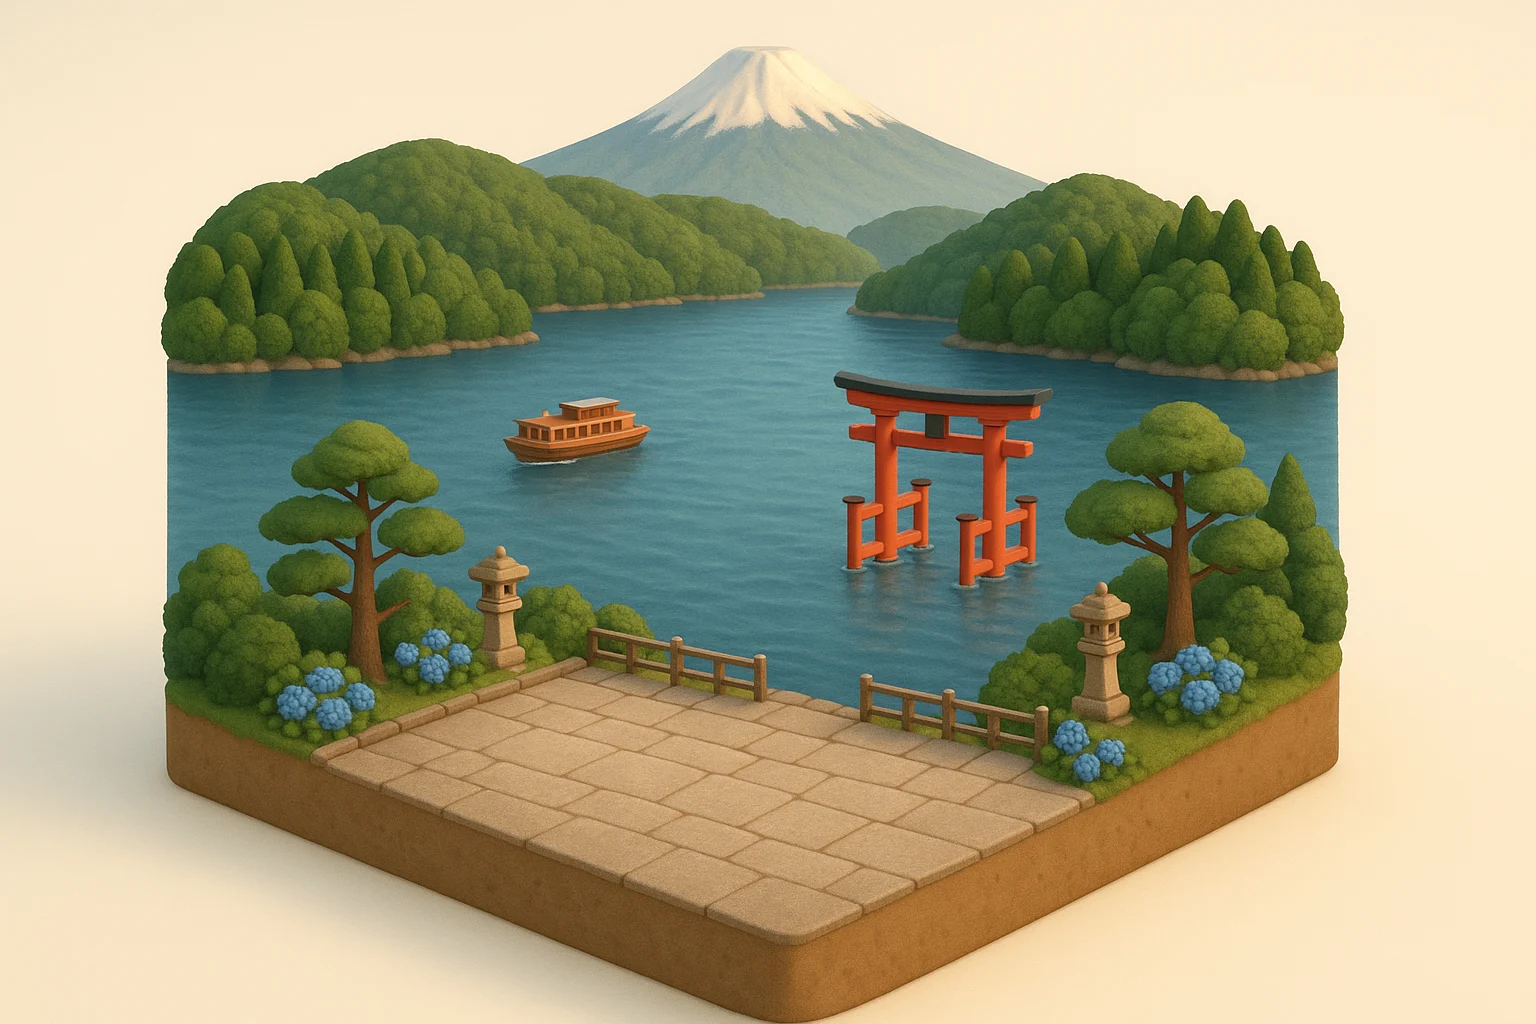
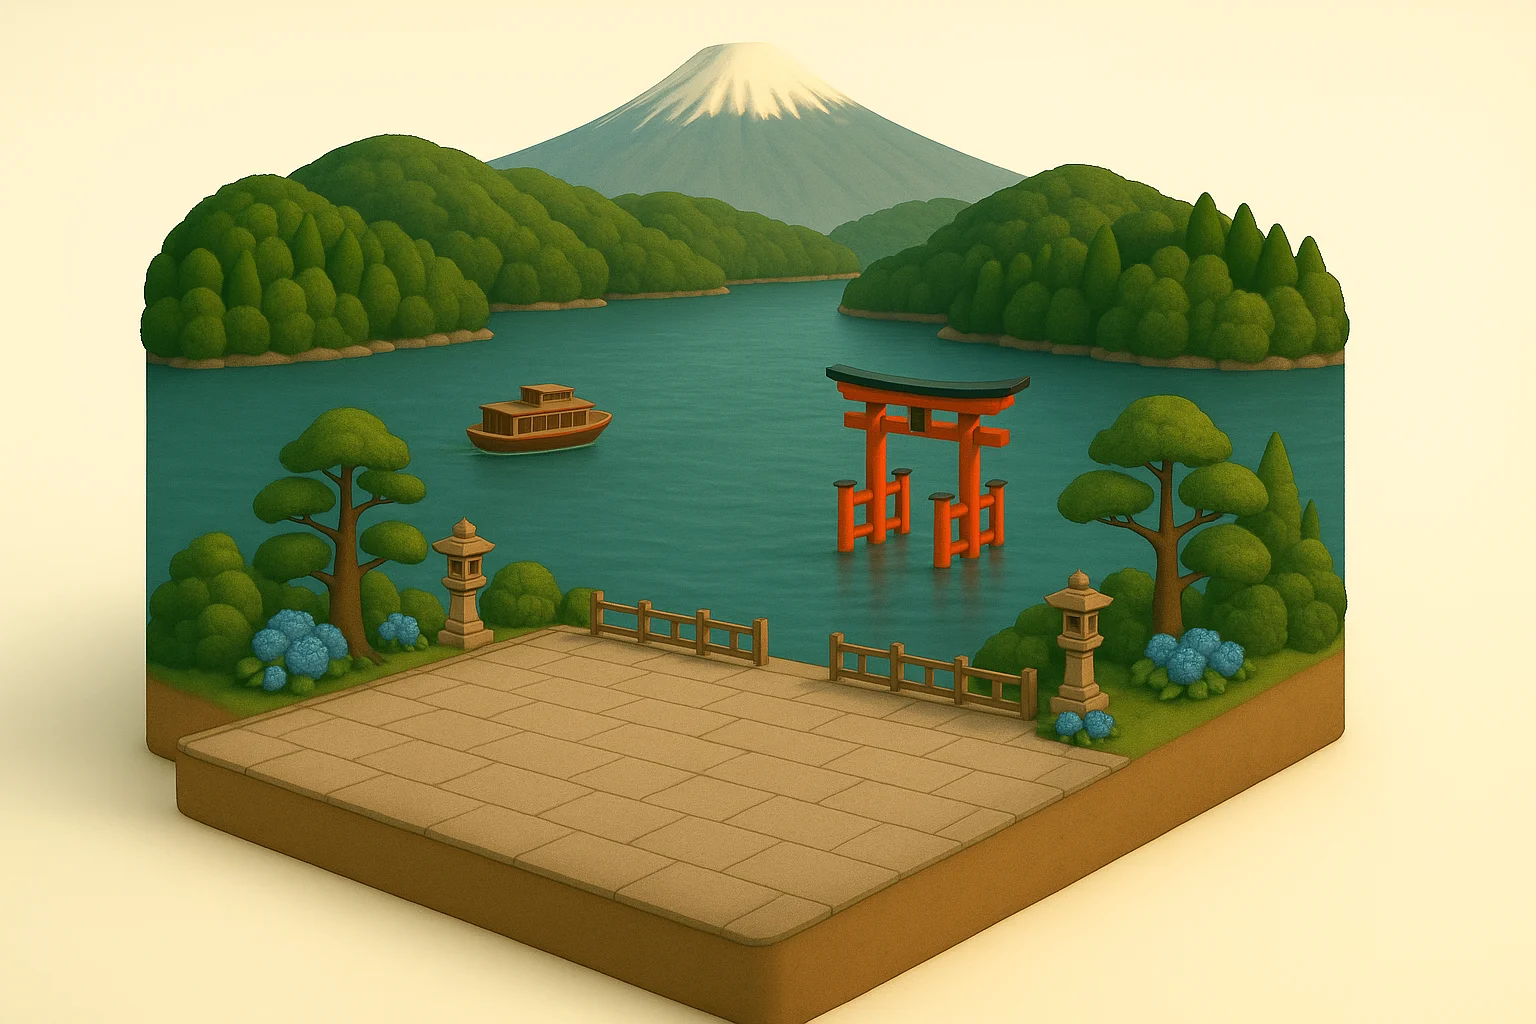
大涌谷と芦ノ湖の絵を、手前の石畳を広げた絵に差し替え、ベンチをゆとりをもって置き直す。座った直後に「ほかの端末で座っている席」と出る不具合を直す

diff --git a/public/部屋.js b/public/部屋.js
@@ -62,36 +62,40 @@ export const 部屋ら = {
     名: "箱根・大涌谷",
     英字: "Owakudani, Hakone",
     添え: "箱根の大涌谷。湯けむりの立ちのぼる岩の谷を眺めながら、ベンチに座って、それぞれの本を読む。",
-    // 2026-10-03 に作った案2（配信者が選んだ）。1536×1024
+    // 2026-10-03 に作った案2（配信者が選んだ）。2026-10-04 に、構図はそのままに手前の石畳を広げた絵（広げた案2）に差し替えた
+    //（配信者「ベンチの位置が近すぎるので、ゆとりをもって配置できるように」。04_tools/部屋を作る.mjs の --広げる）。1536×1024
     絵: "/部屋/owakudani.webp",
     比: "3 / 2",
     空き: { 顔: "/部屋/bench_front.webp", 背中: "/部屋/bench_back.webp" },
     空きの向き: { 顔: "左", 背中: "右" },
-    // 二人掛けのベンチを4ブロック、手前の石畳に左から並べる（8人まで。2026-10-03 配信者）。
-    // ローテンブルクと同じく、1つ目と3つ目は南東（右手前）、2つ目と4つ目は南西（左手前）を向く
+    // 二人掛けのベンチを4ブロック（8人まで）。広げた石畳に、ゆとりをもって**奥に2つ・手前に2つ**（2026-10-04）。
+    // 1つ目と3つ目は南東（右手前）、2つ目と4つ目は南西（左手前）を向く（前と同じ）
     席: 二人掛け([
-      { x: 24,   y: 73, 幅: 10, 向き: "右", 姿: "顔" },   // 1つ目
-      { x: 39,   y: 79, 幅: 10, 向き: "左", 姿: "顔" },   // 2つ目
-      { x: 55,   y: 81, 幅: 10, 向き: "右", 姿: "顔" },   // 3つ目
-      { x: 66,   y: 77, 幅: 10, 向き: "左", 姿: "顔" },   // 4つ目（石畳の右端）
+      { x: 24.7, y: 73,   幅: 10, 向き: "右", 姿: "顔" },   // 奥の左
+      { x: 48.3, y: 74.2, 幅: 10, 向き: "左", 姿: "顔" },   // 奥の右
+      { x: 36.1, y: 86,   幅: 10, 向き: "右", 姿: "顔" },   // 手前の左
+      { x: 51.5, y: 85,   幅: 10, 向き: "左", 姿: "顔" },   // 手前の右
     ]),
   },
   ashinoko: {
     名: "箱根・芦ノ湖",
     英字: "Lake Ashi, Hakone",
     添え: "箱根の芦ノ湖。湖に立つ赤い鳥居と、向こうの富士山を眺めながら、湖畔のベンチに座って、それぞれの本を読む。",
-    // 2026-10-04 に作った案1（配信者が選んだ）。1536×1024
+    // 2026-10-04 に作った案1（配信者が選んだ）。同じ日に、構図はそのままに手前の石畳を広げた絵（広げた案1）に差し替えた
+    //（配信者「ベンチの位置が近すぎるので、ゆとりをもって配置できるように」。04_tools/部屋を作る.mjs の --広げる）。1536×1024
     絵: "/部屋/ashinoko.webp",
     比: "3 / 2",
     空き: { 顔: "/部屋/bench_front.webp", 背中: "/部屋/bench_back.webp" },
     空きの向き: { 顔: "左", 背中: "右" },
-    // 二人掛けのベンチを4ブロック（8人まで）。湖畔の石畳（ひし形）の奥の2辺にそって置く（2026-10-04 配信者）：
-    // **左上の辺に1つ（2人）を南東向き、右上の辺（湖の柵ぞい）に3つ（6人）を南西向き**
+    /* 二人掛けのベンチを4ブロック（8人まで）。湖畔の石畳（ひし形）にゆとりをもって置く（2026-10-04 配信者「最適に置き直して」）。
+       前の配信者の指示（左上の辺は南東向き・右上の辺は南西向き）を生かし、
+       **左上の辺に1つ（南東）・右上の辺（湖の柵ぞい）に2つ（南西）・手前の中ほどに1つ（南東）**。
+       ⚠ 右上の辺に3つ並べると、広げたあとでもベンチどうしがくっつく長さだった */
     席: 二人掛け([
-      { x: 28,   y: 76,   幅: 10, 向き: "右", 姿: "顔" },   // 左上の辺
-      { x: 42,   y: 72.5, 幅: 10, 向き: "左", 姿: "顔" },   // 右上の辺の1つ目（奥）
-      { x: 51.5, y: 77,   幅: 10, 向き: "左", 姿: "顔" },   // 右上の辺の2つ目
-      { x: 61,   y: 81.5, 幅: 10, 向き: "左", 姿: "顔" },   // 右上の辺の3つ目（右の角の近く）
+      { x: 21.4, y: 75.1, 幅: 10, 向き: "右", 姿: "顔" },   // 左上の辺
+      { x: 43.4, y: 69.6, 幅: 10, 向き: "左", 姿: "顔" },   // 右上の辺の奥
+      { x: 46.7, y: 88.6, 幅: 10, 向き: "右", 姿: "顔" },   // 手前の中ほど
+      { x: 61.4, y: 75.5, 幅: 10, 向き: "左", 姿: "顔" },   // 右上の辺の右
     ]),
   },
   cafe: {

diff --git a/public/試し/土台.js b/public/試し/土台.js
@@ -147,7 +147,12 @@ export function 席を見張る(部屋, 届いたら, { 合わせる = false } =
 }
 
 // 同じ人が別のタブでも開いているときの突き合わせ（中身は 席の決まり.js。土台.js と同じ）
+/* ⚠ 座っている途中（座る の中）は突き合わせない（2026-10-04）。
+   座る席を書いた瞬間に席の様子が届くと、まだ いま が無いので、自分の席を「ほかの端末で座っている席」と取り違え、
+   「ほかの端末で座っている席で、続けて読めます」と出ていた */
+let 座りかけ = false;
 function 席を合わせる(部屋, 席ら){
+  if(座りかけ) return null;
   const r = 席を突き合わせる(いま, 部屋, 席ら.find(s=>s.uid === 私?.uid));
   いま = r.いま;
   return r.出来事;
@@ -156,6 +161,11 @@ function 席を合わせる(部屋, 席ら){
 let いま = null;   // 座っているあいだの覚え（形は 席の決まり.js の 座った覚え）。記録は「読み終える」のときだけ
 // 順：座ってみる席の番号の並び（画面の 座る順 が、空いたベンチを優先してランダムに決める）。数なら 0,1,2… の順
 export async function 座る(部屋, 題, 順, 本 = ""){
+  座りかけ = true;
+  try{ return await 座ってみる(部屋, 題, 順, 本); }
+  finally{ 座りかけ = false; }
+}
+async function 座ってみる(部屋, 題, 順, 本){
   const 番ら = typeof 順 === "number" ? [...Array(順).keys()] : 順;
   await 立つ();
   const s = 読む();

diff --git a/README.md b/README.md
@@ -20,6 +20,11 @@
   2026-10-03 に **箱根・大涌谷** を足した（二人掛けのベンチ4つ・8人まで。並べ方はローテンブルクと同じ）。
   2026-10-04 に **箱根・芦ノ湖** を足した（湖に立つ赤い鳥居と富士山。案1。二人掛けのベンチ4つ・8人まで。
   石畳はひし形で、配信者の指示で**左上の辺に1つ（2人）を南東向き、右上の辺（湖の柵ぞい）に3つ（6人）を南西向き**に置いた）。
+  2026-10-04 に、**大涌谷と芦ノ湖の絵を、構図はそのままに手前の石畳を広げた絵に差し替えた**（配信者「ベンチの位置が近すぎるので、
+  ゆとりをもって配置できるように」。大涌谷は広げた案2、芦ノ湖は広げた案1）。作り方は `node 04_tools/部屋を作る.mjs ashinoko 2 --広げる`
+  （いまの絵を OpenAI の images/edits に渡し、広場のことだけを頼む。⚠ 手直しすると全体の色が少し黄色寄りになる）。
+  ベンチは置き直した（配信者「最適に置き直して」）：大涌谷は**奥に2つ・手前に2つ**、芦ノ湖は**左上の辺に1つ（南東）・右上の辺に2つ（南西）・
+  手前の中ほどに1つ（南東）**（右上の辺に3つでは、広げたあとでもくっつく長さだった）。
   ⚠ 一度、前後2列に並べたときに、空のベンチと座っている人を**まとめて奥から描く**ようにした（`画面/ベンチ.js` の `人とベンチ`。
   前は空のベンチを先に全部描いていて、手前の空のベンチが奥に座った人の下に隠れた）
 - 最初は「神保町のカフェ」だった（同じ日にしまった。`部屋.js` の cafe は `出す: false` で残してある。戻すかもしれない）
